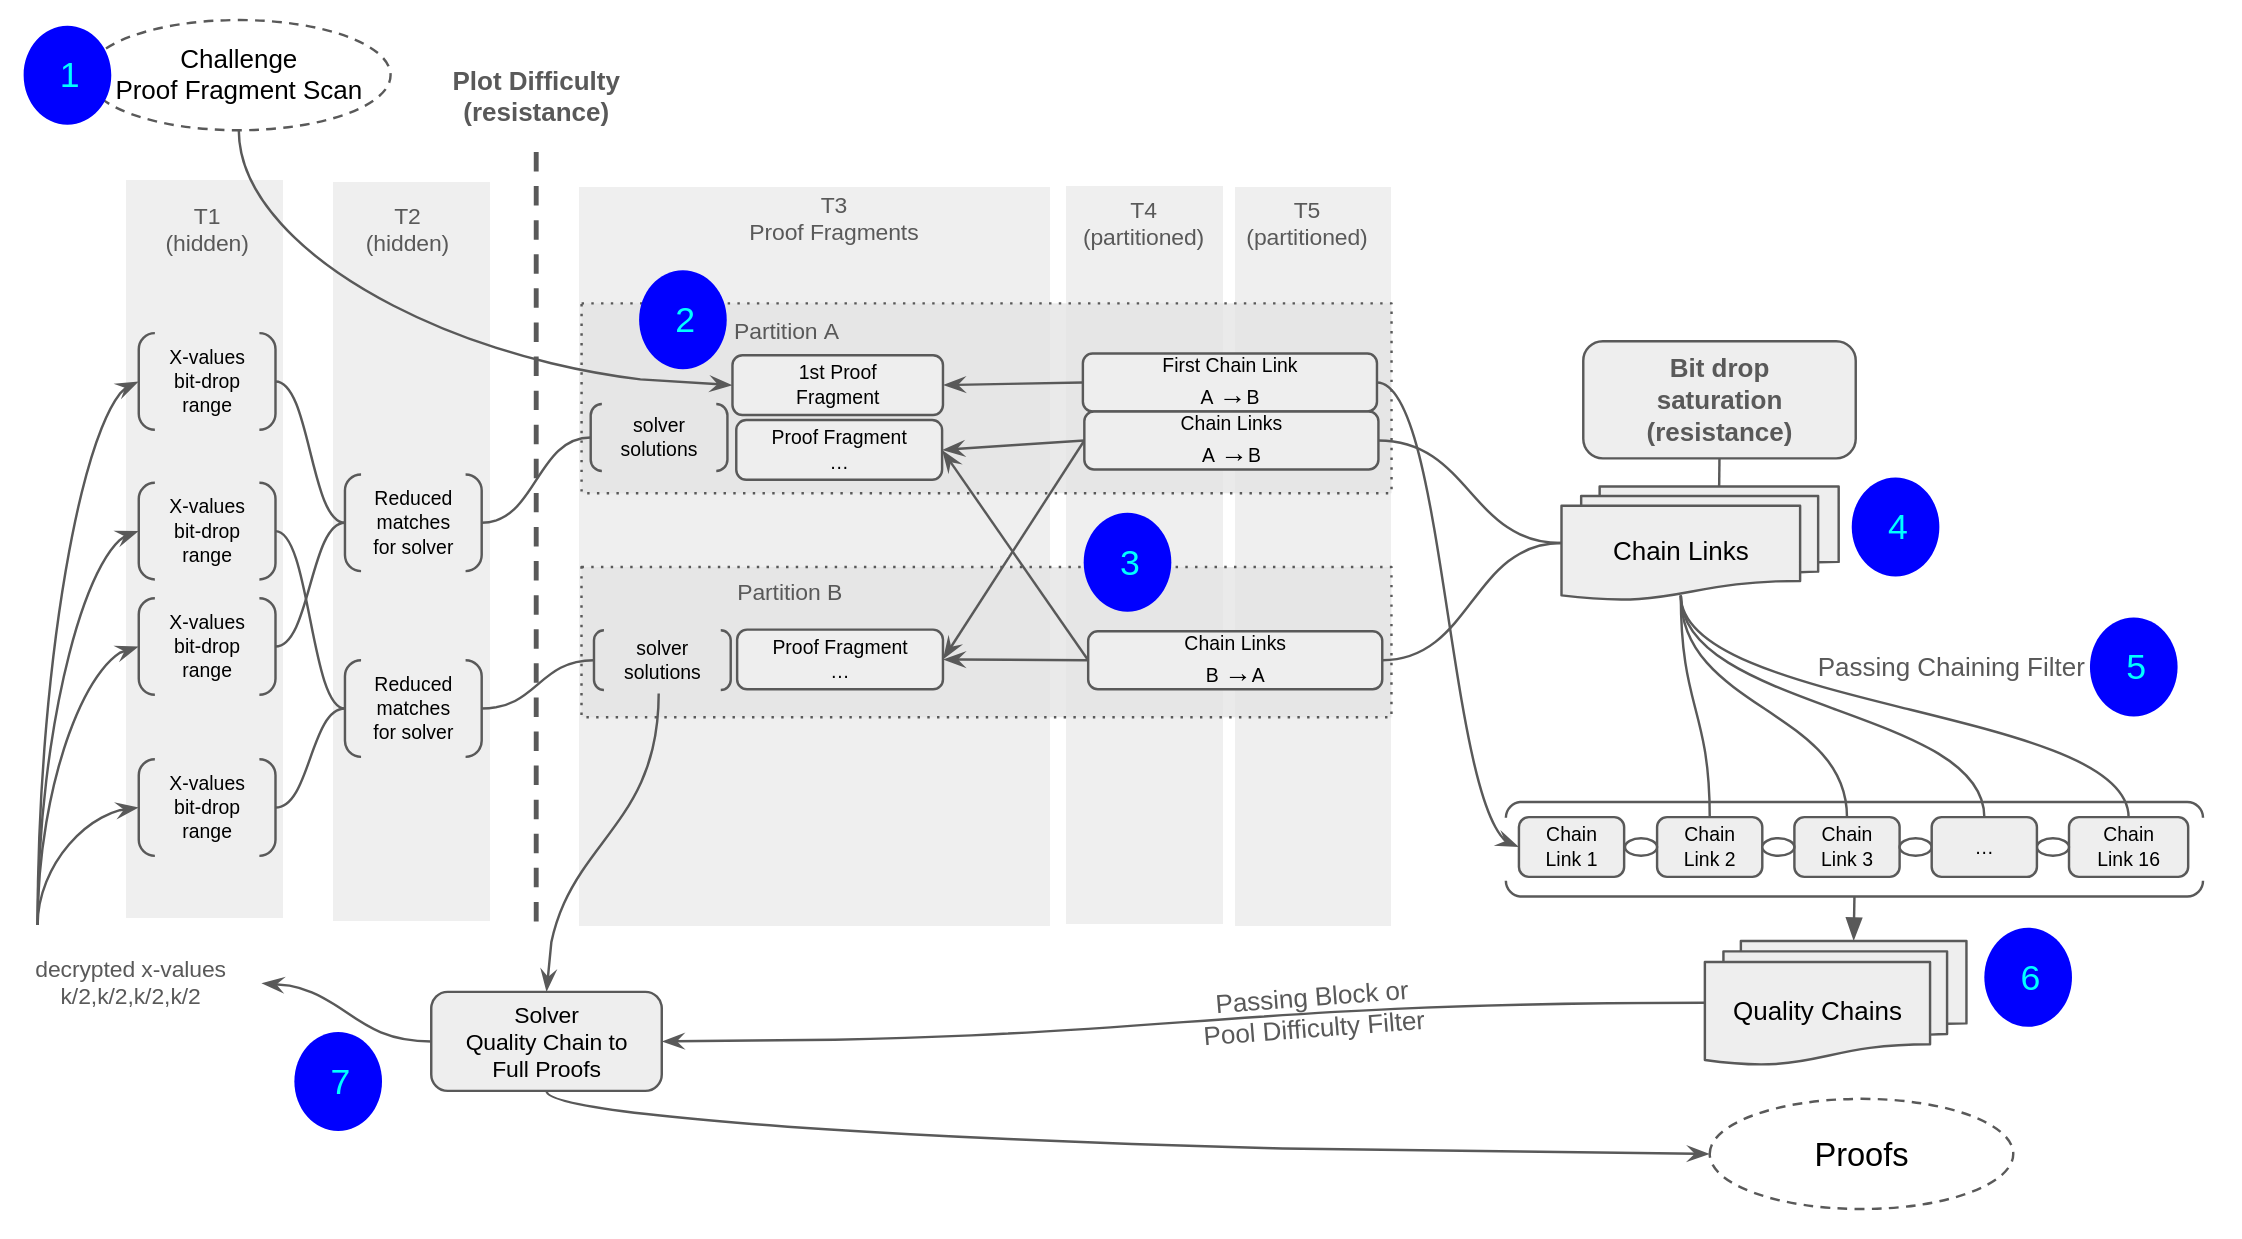
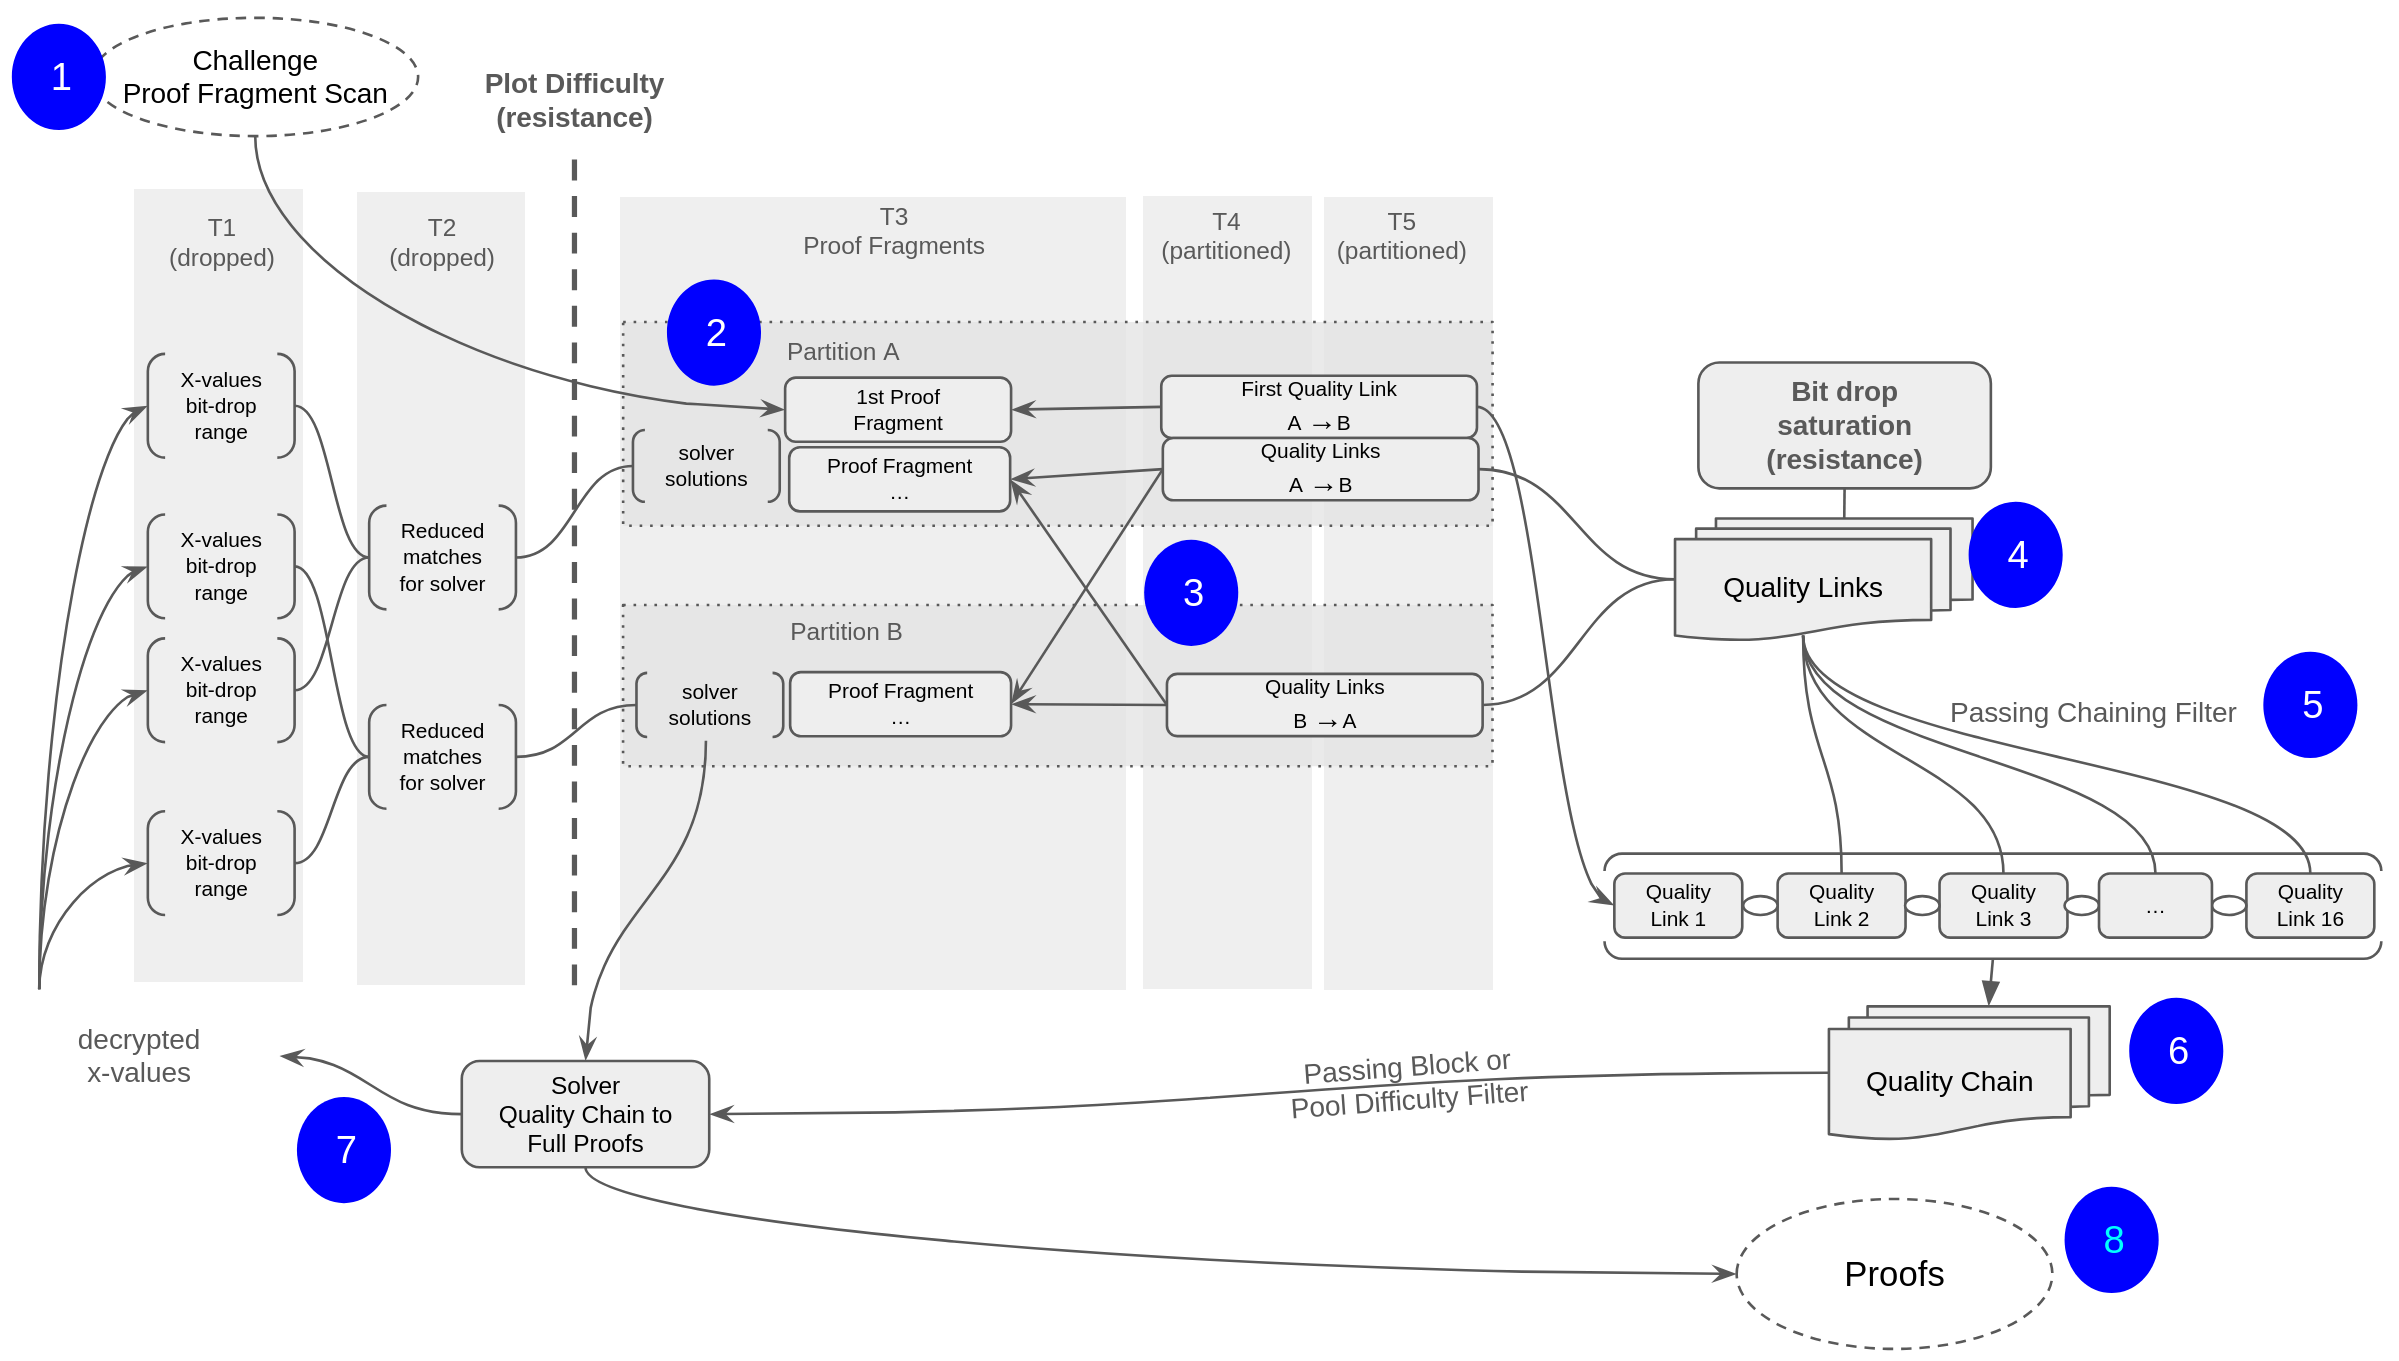
Fixed naming of Quality Links in diagram and description

diff --git a/chip/chip-proof-of-space.md b/chip/chip-proof-of-space.md
@@ -238,9 +238,9 @@ A simplified view of the PoS system is shown below.
 
 1. A challenge from the network defines a **Proof Fragment Scan Filter** to perform, which is a range in a partition (A) with a defined probability to pass.
 2. Proof Fragments that pass the filter are found by scanning the sorted elements in partition (A) in table T3. These are child nodes of a proof, and other sibling Proof Fragments tell us which other partition (B) they match with.
-3. We find all paths for proofs that share child Proof Fragments present in both partition (A) and partition (B). Each path links three sibling Proof Fragments, called a **Chain Link**.
-4. We collect the set of Chain Links. 
-5. We use the first Chain Link found in step (2), to seed the first element in a **Quality Chain**. We add links to this chain by testing a chaining filter hash on each Chain Link in the set from (4). This could produce multiple forks of chains if more than one Chain Link passes each round.
+3. We find all paths for proofs that share child Proof Fragments present in both partition (A) and partition (B). Each path links three sibling Proof Fragments, called a **Quality Link**.
+4. We collect the set of Quality Links. 
+5. We use the first Quality Link found in step (2), to seed the first element in a **Quality Chain**. We add links to this chain by testing a chaining filter hash on each Quality Link in the set from (4). This could produce multiple forks of chains if more than one Quality Link passes each round.
 6. Each Quality Chain is then checked if it passes the block difficulty (or pool partial difficulty). If it passes, congratulations, we have a good Proof of Space.
 7. We fetch one more Proof Fragment in T3 for each Quality Link to complete the set of four Proof Fragments for a proof. We then decrypt each Proof Fragment to find bit-dropped x-values. These need a recompute reconstruction of the full x-values in proofs using the Solver.
 8. The final full proof is all the solved x-values in the chaining sequence.
